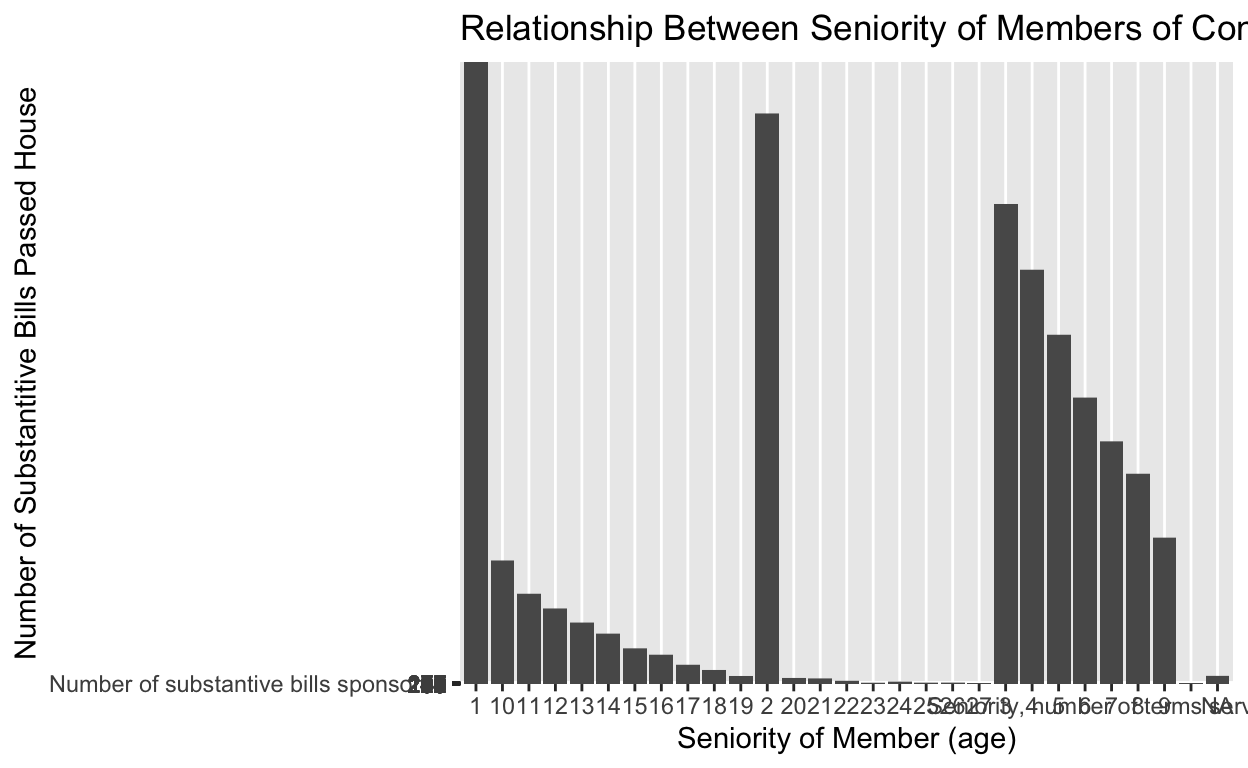
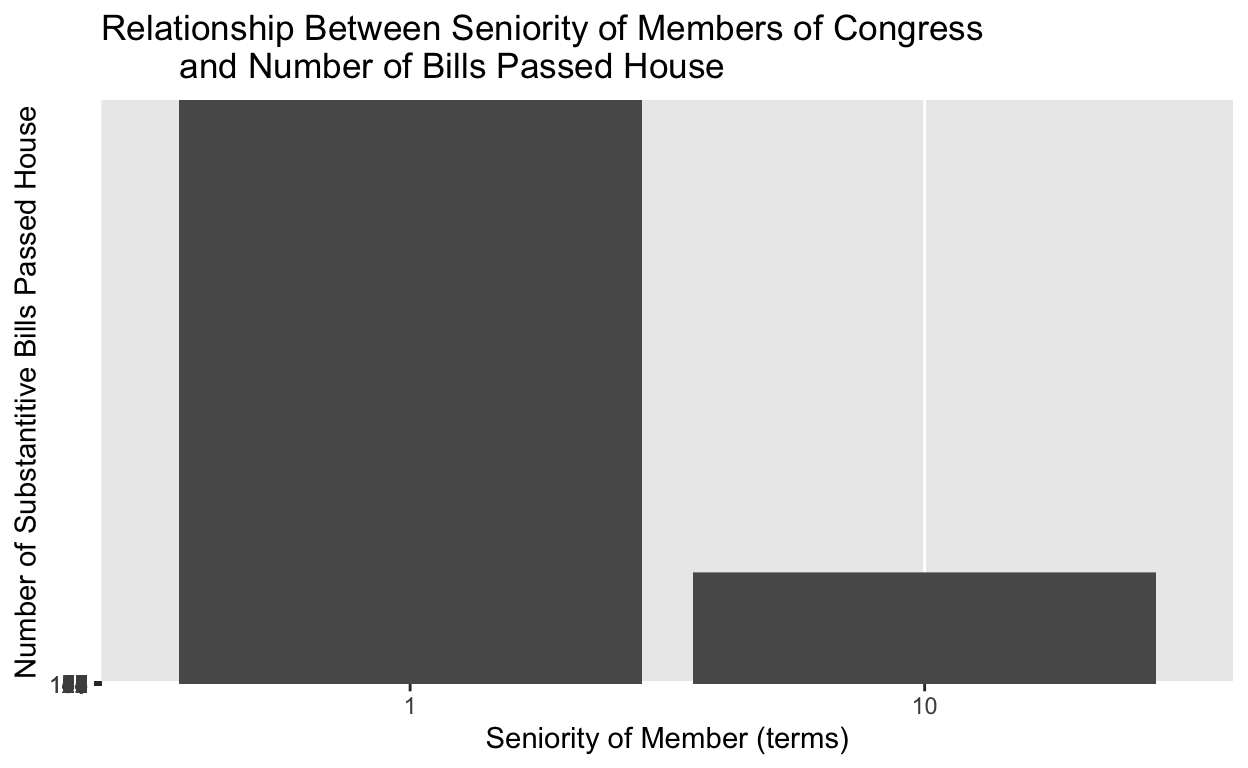
updated

diff --git a/index.html b/index.html
@@ -115,7 +115,7 @@ code span.wa { color: #5e5e5e; font-style: italic; } /* Warning */
   <!--/radix_placeholder_rmarkdown_metadata-->
   
   <script type="text/json" id="radix-resource-manifest">
-  {"type":"character","attributes":{},"value":["CONGRESS DATA .csv","index_files/anchor-4.2.2/anchor.min.js","index_files/bowser-1.9.3/bowser.min.js","index_files/distill-2.2.21/template.v2.js","index_files/figure-html5/unnamed-chunk-1-1.png","index_files/header-attrs-2.17/header-attrs.js","index_files/header-attrs-2.24/header-attrs.js","index_files/jquery-3.6.0/jquery-3.6.0.js","index_files/jquery-3.6.0/jquery-3.6.0.min.js","index_files/jquery-3.6.0/jquery-3.6.0.min.map","index_files/popper-2.6.0/popper.min.js","index_files/tippy-6.2.7/tippy-bundle.umd.min.js","index_files/tippy-6.2.7/tippy-light-border.css","index_files/tippy-6.2.7/tippy.css","index_files/tippy-6.2.7/tippy.umd.min.js","index_files/webcomponents-2.0.0/webcomponents.js"]}
+  {"type":"character","attributes":{},"value":["CONGRESS DATA .csv","index_files/anchor-4.2.2/anchor.min.js","index_files/bowser-1.9.3/bowser.min.js","index_files/distill-2.2.21/template.v2.js","index_files/figure-html5/unnamed-chunk-1-1.png","index_files/header-attrs-2.17/header-attrs.js","index_files/header-attrs-2.24/header-attrs.js","index_files/jquery-3.6.0/jquery-3.6.0.js","index_files/jquery-3.6.0/jquery-3.6.0.min.js","index_files/jquery-3.6.0/jquery-3.6.0.min.map","index_files/popper-2.6.0/popper.min.js","index_files/tippy-6.2.7/tippy-bundle.umd.min.js","index_files/tippy-6.2.7/tippy-light-border.css","index_files/tippy-6.2.7/tippy.css","index_files/tippy-6.2.7/tippy.umd.min.js","index_files/webcomponents-2.0.0/webcomponents.js","UCONGRESS DATA.csv"]}
   </script>
   <!--radix_placeholder_navigation_in_header-->
   <!--/radix_placeholder_navigation_in_header-->
@@ -1527,14 +1527,14 @@ code span.wa { color: #5e5e5e; font-style: italic; } /* Warning */
 <span><span class='kw'><a href='https://rdrr.io/r/base/library.html'>library</a></span><span class='op'>(</span><span class='va'><a href='https://dplyr.tidyverse.org'>dplyr</a></span><span class='op'>)</span></span>
 <span><span class='kw'><a href='https://rdrr.io/r/base/library.html'>library</a></span><span class='op'>(</span><span class='va'><a href='https://ggplot2.tidyverse.org'>ggplot2</a></span><span class='op'>)</span></span>
 <span></span>
-<span><span class='va'>congress</span> <span class='op'>&lt;-</span> <span class='fu'><a href='https://readr.tidyverse.org/reference/read_delim.html'>read_csv</a></span><span class='op'>(</span><span class='st'>"CONGRESS DATA .csv"</span>, show_col_types <span class='op'>=</span> <span class='cn'>FALSE</span><span class='op'>)</span> </span>
+<span><span class='va'>congress</span> <span class='op'>&lt;-</span> <span class='fu'><a href='https://readr.tidyverse.org/reference/read_delim.html'>read_csv</a></span><span class='op'>(</span><span class='st'>"CONGRESS DATA .csv"</span><span class='op'>)</span></span>
 <span></span>
-<span>  </span>
-<span><span class='va'>plot_q1</span> <span class='op'>&lt;-</span> <span class='fu'><a href='https://ggplot2.tidyverse.org/reference/ggplot.html'>ggplot</a></span><span class='op'>(</span>data <span class='op'>=</span> <span class='va'>congress</span>, <span class='fu'><a href='https://ggplot2.tidyverse.org/reference/aes.html'>aes</a></span><span class='op'>(</span>x <span class='op'>=</span> <span class='va'>seniority</span>, y <span class='op'>=</span> <span class='va'>s_bills</span><span class='op'>)</span><span class='op'>)</span> <span class='op'>+</span> <span class='fu'><a href='https://ggplot2.tidyverse.org/reference/geom_bar.html'>geom_col</a></span><span class='op'>(</span><span class='op'>)</span> <span class='op'>+</span></span>
-<span>  <span class='fu'><a href='https://ggplot2.tidyverse.org/reference/labs.html'>labs</a></span><span class='op'>(</span>title <span class='op'>=</span> <span class='st'>"Relationship Between Seniority of Members of Congress and Number of Bills Passed House"</span>, x <span class='op'>=</span> <span class='st'>"Seniority of Member (age)"</span>, </span>
-<span>       y <span class='op'>=</span> <span class='st'>"Number of Substantitive Bills Passed House"</span><span class='op'>)</span></span>
+<span><span class='va'>new_data</span> <span class='op'>&lt;-</span> <span class='fu'><a href='https://rdrr.io/r/base/subset.html'>subset</a></span><span class='op'>(</span><span class='va'>congress</span>, <span class='va'>seniority</span> <span class='op'>&lt;</span> <span class='fl'>11</span><span class='op'>)</span></span>
 <span></span>
-<span><span class='va'>plot_q1</span></span></code></pre>
+<span><span class='fu'><a href='https://ggplot2.tidyverse.org/reference/ggplot.html'>ggplot</a></span><span class='op'>(</span><span class='va'>new_data</span><span class='op'>)</span> <span class='op'>+</span> <span class='fu'><a href='https://ggplot2.tidyverse.org/reference/geom_bar.html'>geom_col</a></span><span class='op'>(</span><span class='fu'><a href='https://ggplot2.tidyverse.org/reference/aes.html'>aes</a></span><span class='op'>(</span>x <span class='op'>=</span> <span class='va'>seniority</span>, y <span class='op'>=</span> <span class='va'>s_bills</span><span class='op'>)</span><span class='op'>)</span> <span class='op'>+</span></span>
+<span>  <span class='fu'><a href='https://ggplot2.tidyverse.org/reference/labs.html'>labs</a></span><span class='op'>(</span>title <span class='op'>=</span> <span class='st'>"Relationship Between Seniority of Members of Congress </span></span>
+<span><span class='st'>        and Number of Bills Passed House"</span>, x <span class='op'>=</span> <span class='st'>"Seniority of Member (terms)"</span>, </span>
+<span>       y <span class='op'>=</span> <span class='st'>"Number of Substantitive Bills Passed House"</span><span class='op'>)</span></span></code></pre>
 </div>
 <p><img src="index_files/figure-html5/unnamed-chunk-1-1.png" width="624" /></p>
 </div>
